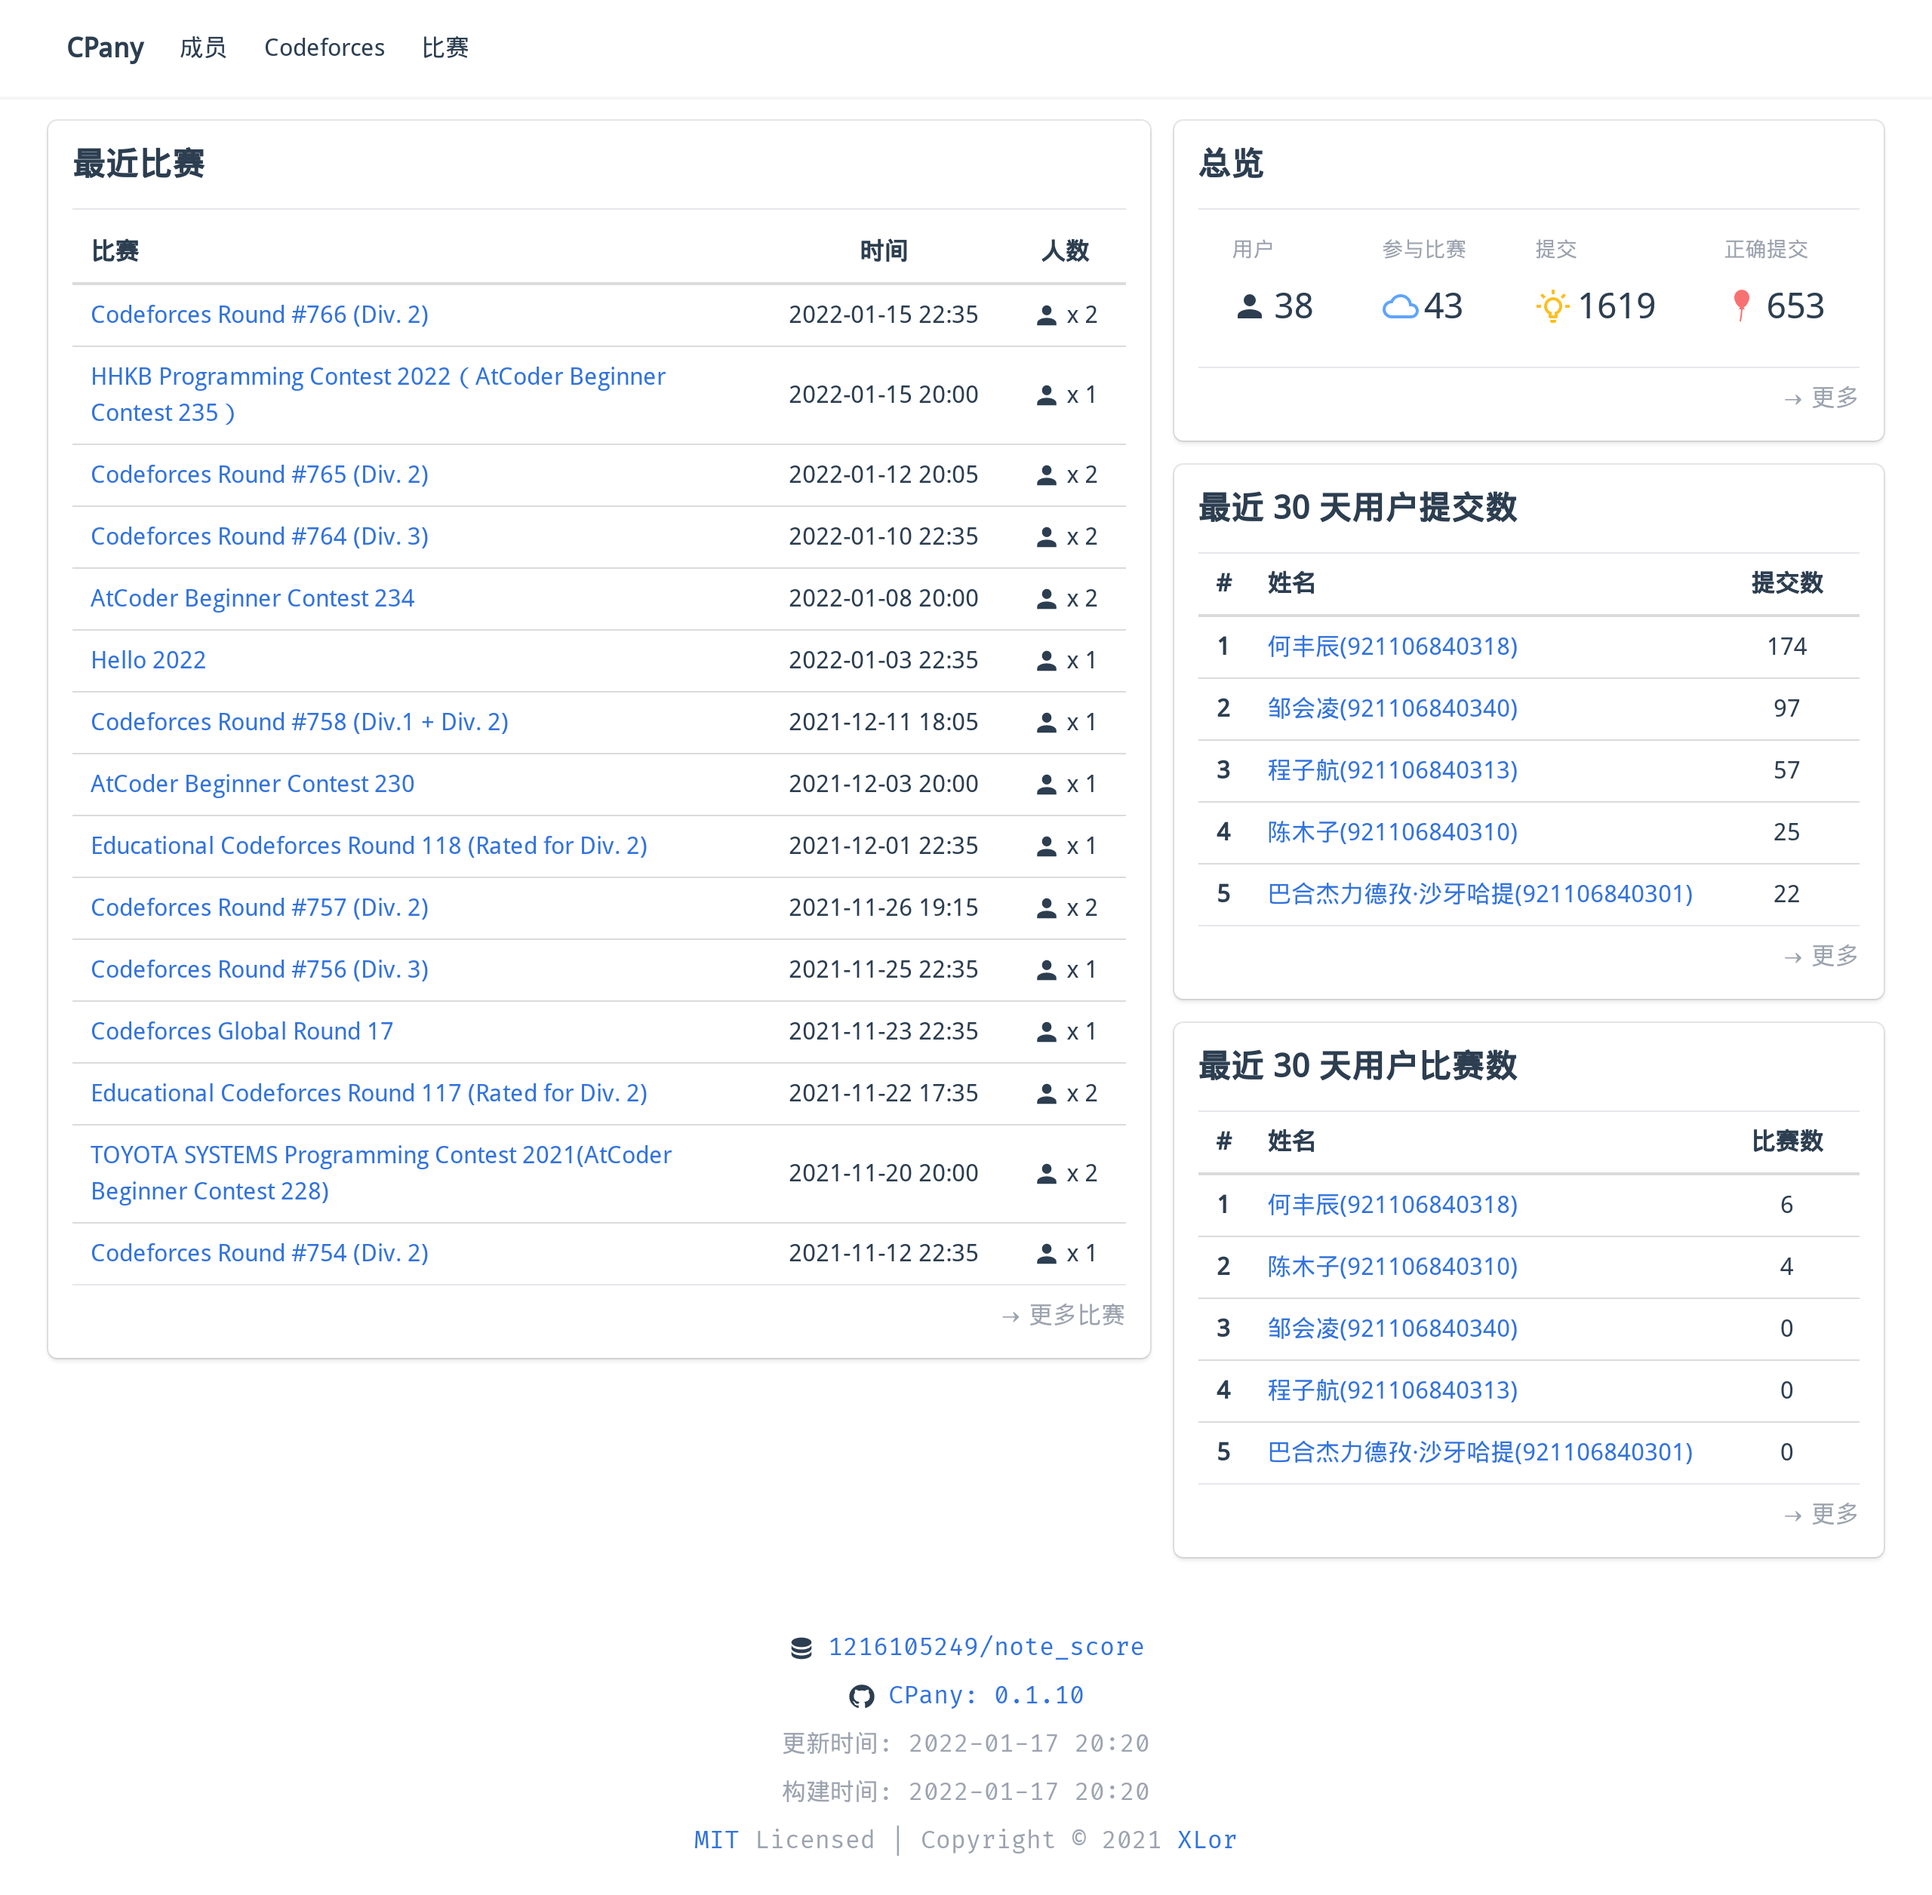
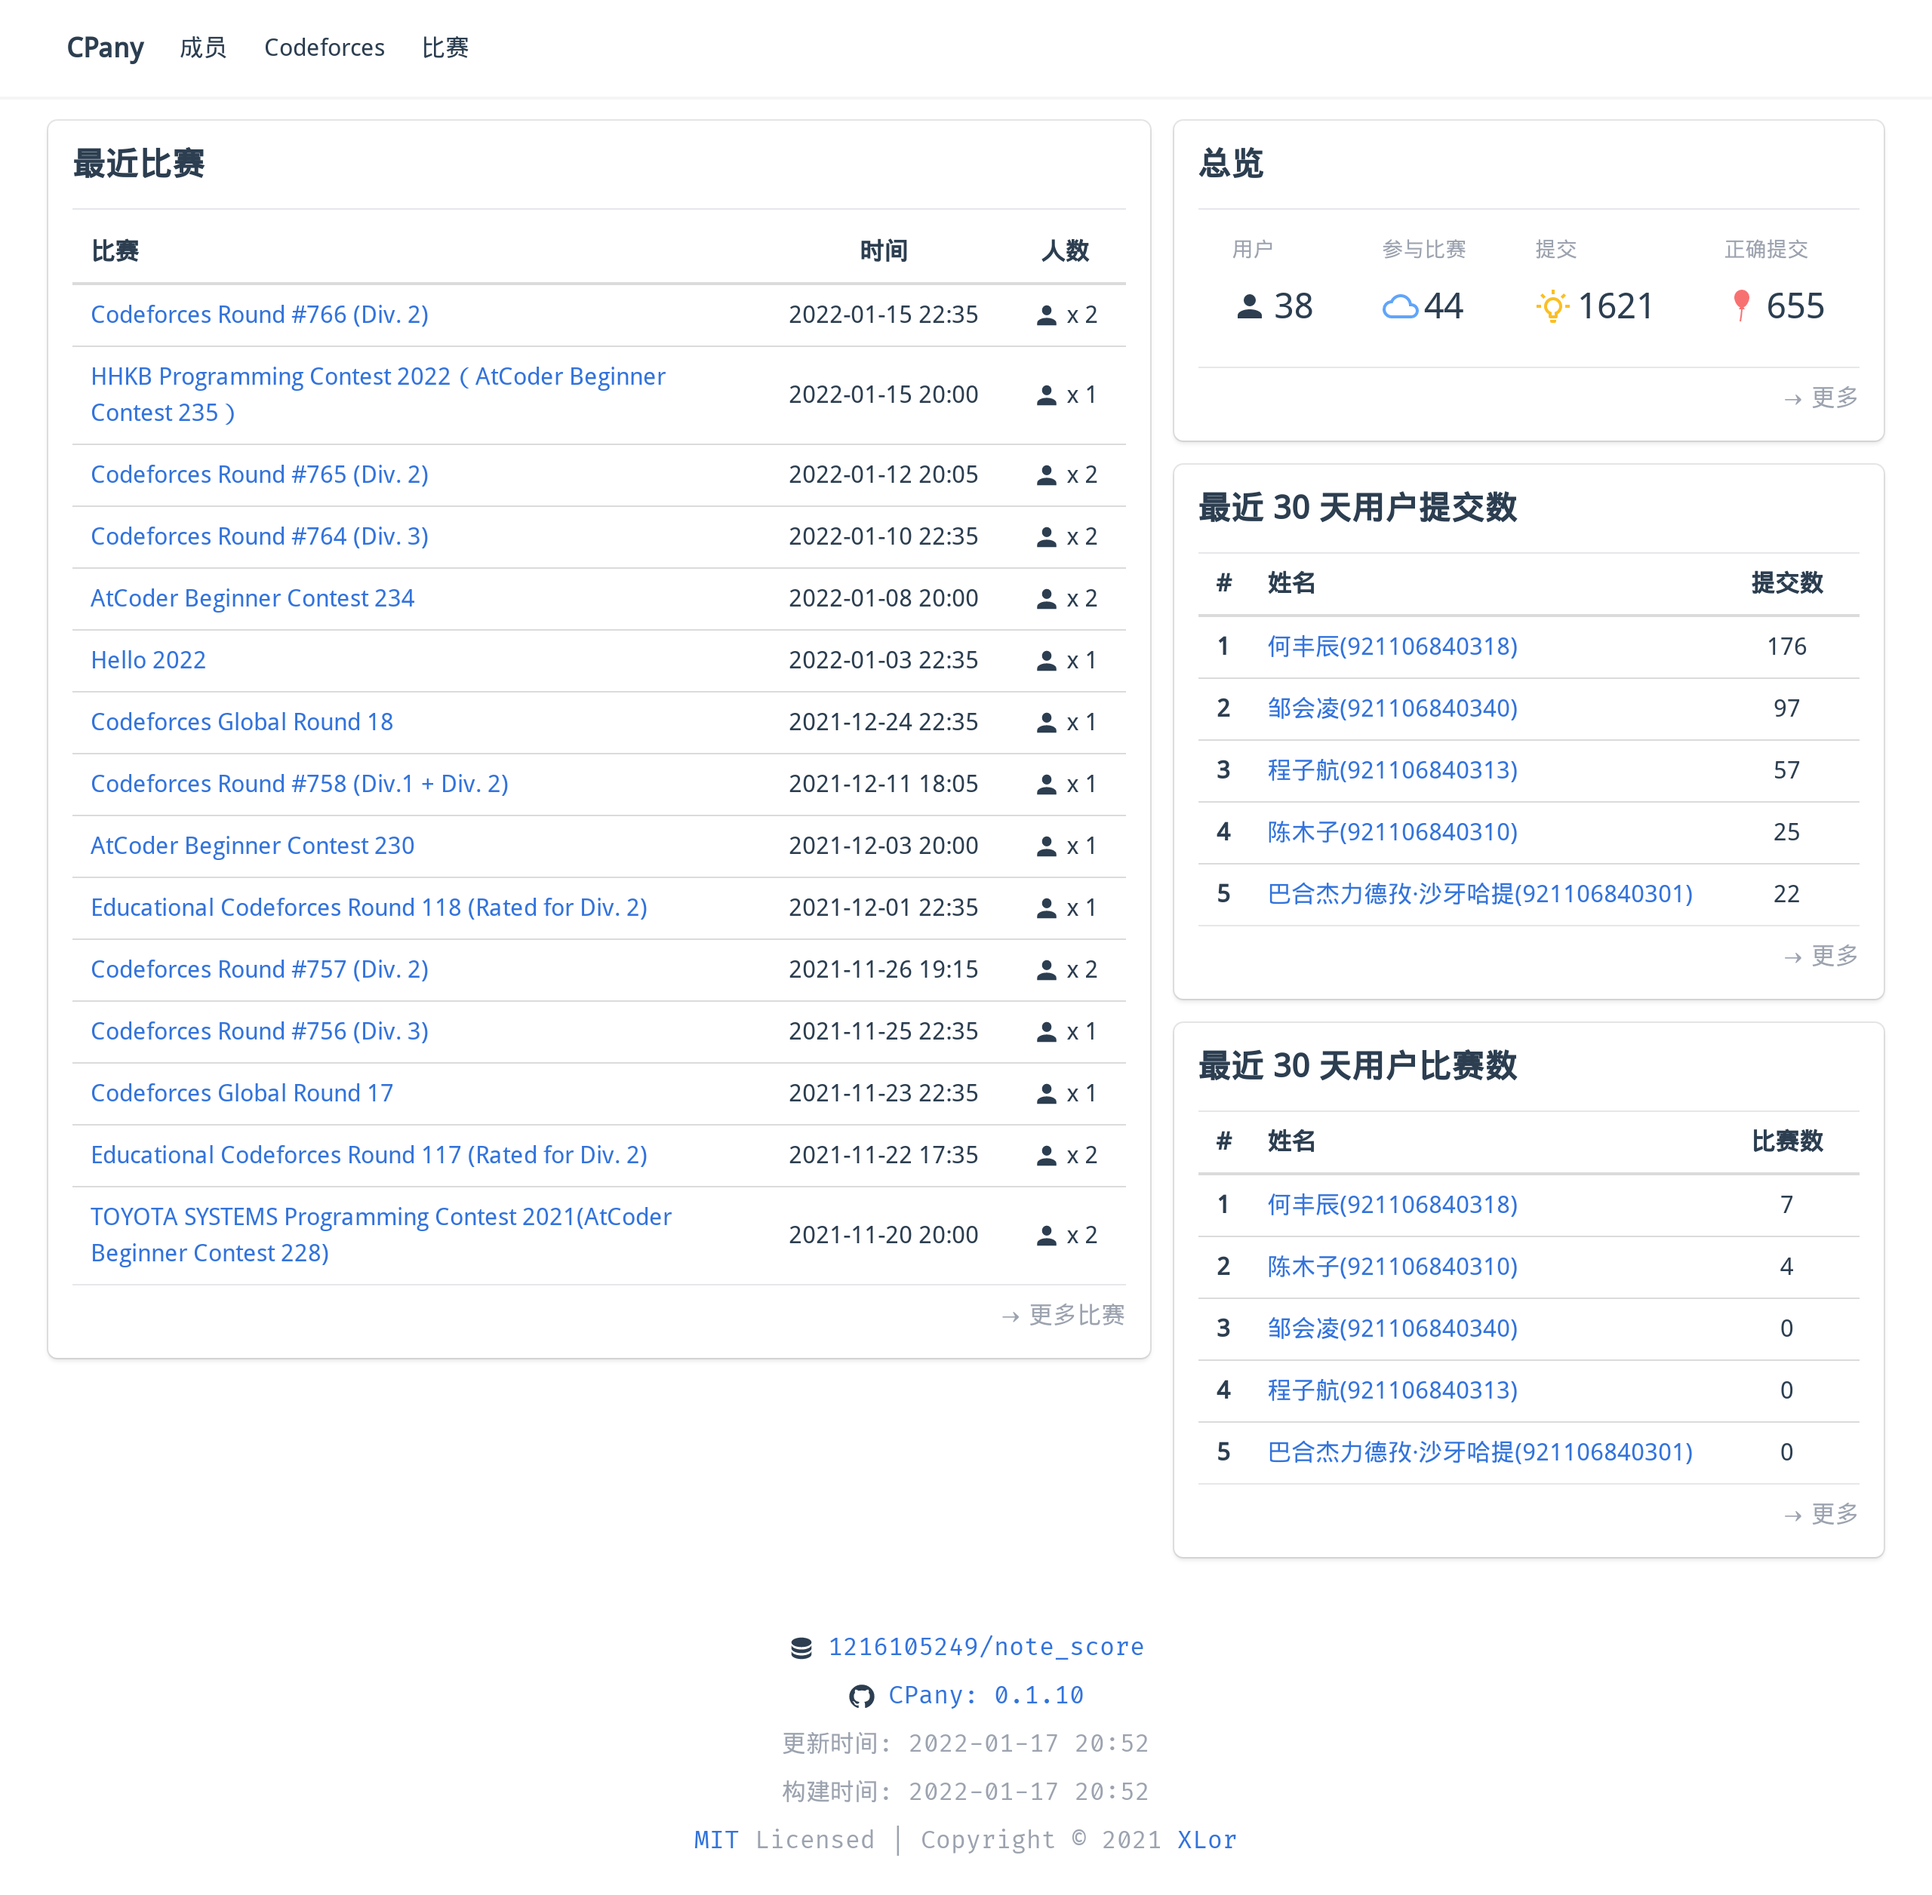
Fetch data on 2022-01-17 20:52

diff --git a/README.md b/README.md
@@ -3,7 +3,7 @@
 [![version](https://img.shields.io/npm/v/@cpany/cli?color=rgb%2850%2C203%2C86%29&label=CPany)](https://www.npmjs.com/package/@cpany/cli)
 
 <!-- START_SECTION: update_time -->
-更新时间：[2022-01-17 20:20](https://www.timeanddate.com/worldclock/fixedtime.html?msg=Fetch+data&iso=202201171642422039000202039&p1=237)
+更新时间：[2022-01-17 20:52](https://www.timeanddate.com/worldclock/fixedtime.html?msg=Fetch+data&iso=202201171642423938000205218&p1=237)
 <!-- END_SECTION: update_time -->
 
 ![members](./screenshot.png)
